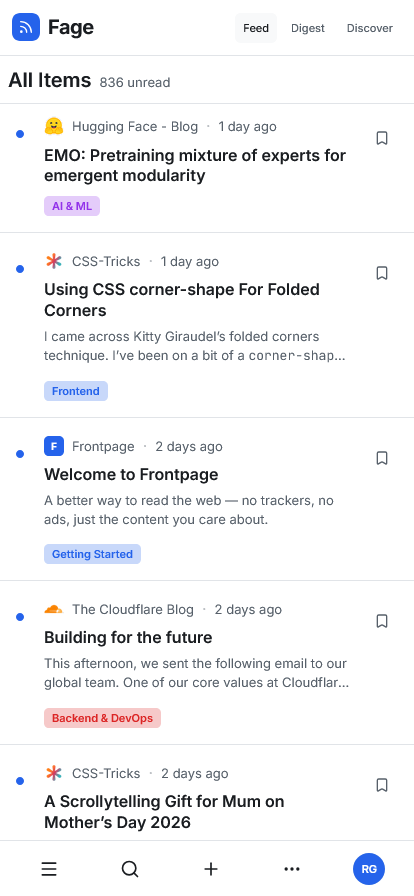
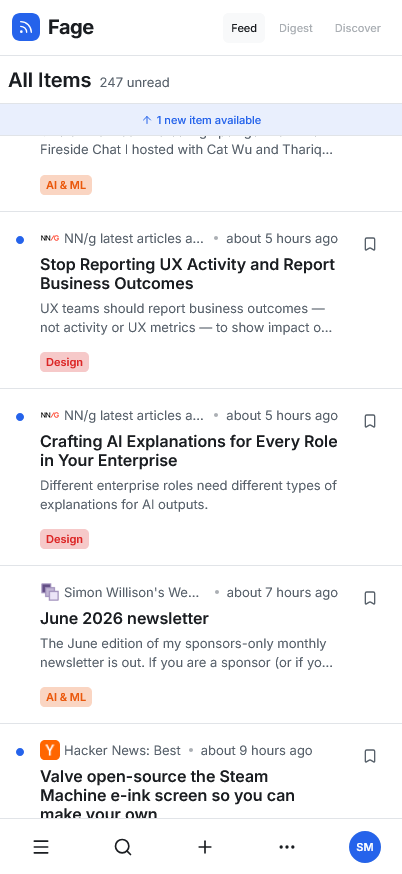
feat(theme): add dark mode screenshots and improve media section
- Added new dark mode screenshots for desktop and mobile views.
- Updated the MediaSection component to conditionally render light and dark mode images.

diff --git a/src/components/landing/media-section.tsx b/src/components/landing/media-section.tsx
@@ -1,3 +1,4 @@
+import { RssIcon, XIcon } from "lucide-react";
 import Image from "next/image";
 import { ReaderView } from "@/components/reader/reader-view";
 import type { ItemWithSource } from "@/types";
@@ -9,31 +10,68 @@ export function MediaSection() {
         <div className="group/preview relative mx-auto max-w-5xl">
           {/* Desktop Preview */}
           <div className="group/desktop hidden md:block relative z-10 rounded-xl border border-border bg-background shadow-2xl overflow-hidden aspect-video cursor-default">
+            {/* Light Mode Desktop */}
             <Image
               src="/screenshot.png"
-              alt="Frontpage screenshot preview"
+              alt="Frontpage desktop screenshot preview"
               fill={true}
               sizes="(max-width: 768px) 100vw, (max-width: 1200px) 90vw, 1024px"
+              className="dark:hidden block object-cover"
+            />
+            {/* Dark Mode Desktop */}
+            <Image
+              src="/screenshot-dark.png"
+              alt="Frontpage desktop screenshot preview (dark mode)"
+              fill={true}
+              sizes="(max-width: 768px) 100vw, (max-width: 1200px) 90vw, 1024px"
+              className="hidden dark:block object-cover"
             />
 
-            {/* Reader drawer - Only visible on hover-capable devices */}
-            <div className="absolute z-20 inset-y-0 right-0 w-4/5 bg-background border-l border-border shadow-2xl group-hover/desktop:translate-x-0 translate-x-full transition-transform duration-500 ease-in-out overflow-hidden [@media(hover:none)]:hidden">
-              <div className="scale-75 origin-top-left w-[133%] pt-2">
-                <ReaderView data={MOCK_ITEM} className="py-4 px-6" />
+            {/* Lightbox Backdrop */}
+            <div className="absolute z-10 inset-0 bg-black/20 opacity-0 group-hover/desktop:opacity-100 transition-opacity duration-300 [@media(hover:none)]:hidden pointer-events-none" />
+
+            {/* Lightbox Modal */}
+            <div className="absolute z-20 inset-y-8 inset-x-30 bg-background rounded-xl shadow-2xl border border-border opacity-0 scale-95 group-hover/desktop:opacity-100 group-hover/desktop:scale-100 transition-all duration-300 ease-out flex flex-col overflow-hidden [@media(hover:none)]:hidden">
+              {/* Mock Toolbar */}
+              <div className="shrink-0 h-10 border-b border-border flex items-center px-3 gap-2">
+                <div className="size-6 rounded-md hover:bg-muted flex items-center justify-center text-text-tertiary">
+                  <XIcon size={18} />
+                </div>
+                <div className="h-5 w-px bg-border mx-1" />
+                <div className="size-4 rounded-sm bg-primary/20 flex items-center justify-center text-primary">
+                  <RssIcon size={12} />
+                </div>
+                <span className="text-xs text-text-secondary">
+                  Frontpage Blog
+                </span>
+              </div>
+
+              {/* Content Container2 */}
+              <div className="overflow-y-auto">
+                <div className="scale-[0.8] origin-top mx-[-10%]">
+                  <ReaderView data={MOCK_ITEM} />
+                </div>
               </div>
             </div>
-
-            {/* Drawer shadow */}
-            <div className="absolute z-10 inset-0 opacity-0 group-hover/desktop:opacity-15 transition-opacity bg-linear-to-r from-black to-background [@media(hover:none)]:hidden" />
           </div>
 
           {/* Mobile Preview */}
           <div className="group-hover/preview:opacity-0 transition-opacity relative z-20 mx-auto w-70 rounded-lg border-2 border-border shadow-2xl overflow-hidden aspect-9/19 md:absolute md:-bottom-12 md:right-6 md:mx-0 md:w-40 lg:w-56 xl:w-64 xl:-right-12">
+            {/* Light Mode Mobile */}
             <Image
               src="/screenshot-mobile.png"
               alt="Frontpage mobile preview"
               fill={true}
               sizes="(max-width: 768px) 280px, (max-width: 1024px) 160px, (max-width: 1280px) 224px, 256px"
+              className="dark:hidden block object-cover"
+            />
+            {/* Dark Mode Mobile */}
+            <Image
+              src="/screenshot-mobile-dark.png"
+              alt="Frontpage mobile preview (dark mode)"
+              fill={true}
+              sizes="(max-width: 768px) 280px, (max-width: 1024px) 160px, (max-width: 1280px) 224px, 256px"
+              className="hidden dark:block object-cover"
             />
           </div>
         </div>

diff --git a/src/app/globals.css b/src/app/globals.css
@@ -135,6 +135,12 @@
     pointer-events: none;
     background-image: var(--noise-filter);
   }
+
+  &:is(.dark *) {
+    &::before {
+      opacity: 0.01;
+    }
+  }
 }
 
 :root {
@@ -541,5 +547,6 @@
 }
 
 .cn-toast [data-title] {
+  /* biome-ignore lint/complexity/noImportantStyles: it's necessary */
   font-weight: 600 !important;
 }
